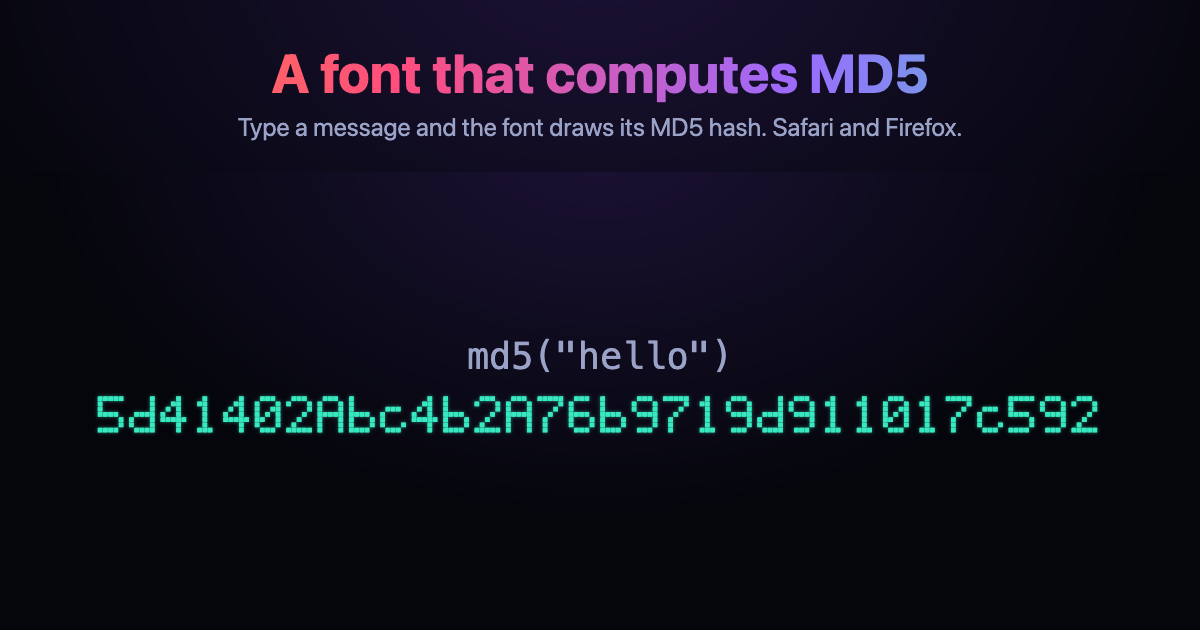
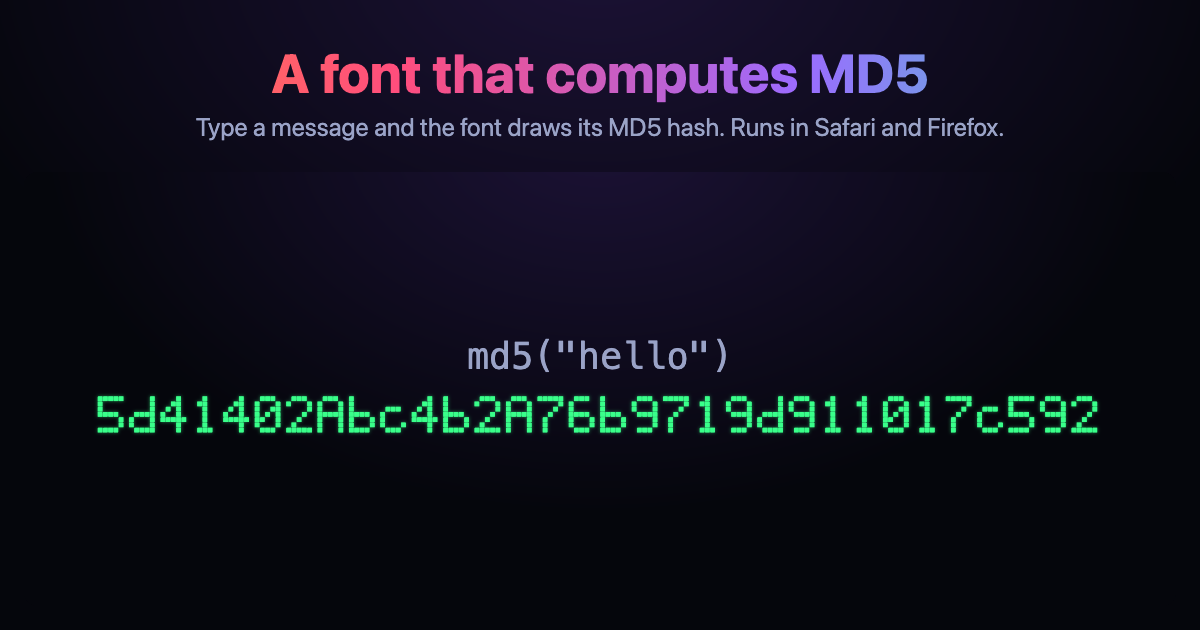
Make the MD5 page match the rest of the site
Draw the hash in the same green as the calculator and Life, put the status
next to the input like the other pages' control rows, and shorten it to a
label. Say plainly that the page never computes the hash, and cut the
footer to the length of the others. The gallery and README now say "demo"
instead of "scene", since not every demo is a scene.

Changed region(s): [[0.0617, 0.6032, 0.925, 0.6937], [0.1542, 0.181, 0.8325, 0.2413]]

diff --git a/docs/md5/index.html b/docs/md5/index.html
@@ -53,8 +53,8 @@
         overflow-wrap: normal;
         letter-spacing: 0;
         font-kerning: none;
-        color: #38e8c0;
-        text-shadow: 0 0 0.06em #38e8c088;
+        color: #39ff8a;
+        text-shadow: 0 0 0.06em #39ff8a88;
       }
       .readout.error { color: var(--hot); }
     </style>
@@ -66,7 +66,7 @@
         <a href="https://github.com/agustingianni/glyph-machine/blob/main/src/build_hash.py">Source</a>
       </nav>
       <h1 class="title">A font that computes MD5</h1>
-      <p class="lede">Type a message. While your browser lays out the text, the font works out its <b>MD5</b> hash and draws the 32 hex digits. All 64 rounds of MD5 run inside the font. The page's JavaScript only checks that the input is printable ASCII.</p>
+      <p class="lede">Type a message. While your browser lays out the text, the font works out its <b>MD5</b> hash and draws the 32 hex digits. The page never computes the hash: its JavaScript only puts your text in the box, and all 64 rounds run inside the font.</p>
 
       <div class="panels">
         <div class="panel">
@@ -90,8 +90,8 @@
       <div class="controls">
         <input type="text" id="in" value="hello" maxlength="55" aria-label="your message"
           autocomplete="off" spellcheck="false" />
+        <span class="readout" id="status" role="status">Loading the font...</span>
       </div>
-      <p class="readout" id="status" role="status">Loading the font...</p>
 
       <div class="legend">
         <span class="chip"><b>Firefox</b>: Graphite rules with integer registers, 6 KB</span>
@@ -100,7 +100,7 @@
         <span class="chip">Up to 55 ASCII characters, one MD5 block</span>
       </div>
 
-      <p class="foot">Each browser gets a font made for its own text engine. Firefox runs Graphite, a rule language with a small integer machine. That font keeps MD5's 16 message words and 4 state words as numbers on one glyph, and revisits the glyph 128 times. Safari runs Apple's AAT <code>morx</code> state machines, which have no numbers, only glyphs and a small state. That font first grows the text into a tape of 704 glyphs, one per bit. Then 2,180 state tables add, rotate, and copy bits along the tape, and keep each carry in the machine's state. The page puts a few invisible characters around your text, so even an empty message has something to shape. Chrome runs neither font.</p>
+      <p class="foot">Each browser gets a font made for its own text engine. Firefox runs Graphite rules, which keep MD5's words as numbers on one glyph and revisit it 128 times. Safari runs AAT <code>morx</code> state machines, which have no numbers: they grow the text into a tape of one glyph per bit, then add, rotate, and copy bits along it. The invisible characters around your text give even an empty message something to shape. Chrome runs neither font.</p>
     </div>
     <script>
       var GRAPHITE = CSS.supports("font-tech(features-graphite)");
@@ -145,8 +145,8 @@
         else if (!ok)
           readout.textContent = "Use only printable ASCII: letters, digits, punctuation, and spaces.";
         else if (state === "ready")
-          readout.textContent = text.length + " of 55 characters. Hash computed by "
-            + (GRAPHITE ? "Firefox's Graphite engine." : "Safari's AAT engine.");
+          readout.textContent = text.length + " of 55 characters, hashed by "
+            + (GRAPHITE ? "Graphite" : "AAT morx");
       }
       inp.addEventListener("input", sync);
       document.querySelectorAll("#presets button").forEach(function (b) {

diff --git a/docs/index.html b/docs/index.html
@@ -36,7 +36,7 @@
       <h1 class="title">Fonts that draw impossible things</h1>
       <p class="lede">
         Six small experiments where a line of text does something a font is not
-        supposed to do. Every scene lives inside a font file and is drawn by your
+        supposed to do. Every demo lives inside a font file and is drawn by your
         browser's own text engine. No image, canvas, or SVG. The spinning letters
         above are text too.
       </p>
@@ -86,7 +86,7 @@
             tabindex="-1" scrolling="no" title="A font that computes MD5 preview"></iframe>
           <div class="meta">
             <h3>MD5 hash</h3>
-            <p>Type a message and the font draws its MD5 hash. Safari and Firefox.</p>
+            <p>Type a message and the font draws its MD5 hash. Runs in Safari and Firefox.</p>
           </div>
         </a>
       </div>

diff --git a/docs/md5/hero.html b/docs/md5/hero.html
@@ -35,8 +35,8 @@
     font-size: calc(100vw / 22);
     line-height: 1;
     white-space: pre;
-    color: #38e8c0;
-    text-shadow: 0 0 0.06em #38e8c088;
+    color: #39ff8a;
+    text-shadow: 0 0 0.06em #39ff8a88;
   }
 </style>
 <div class="s">

diff --git a/src/build_site.py b/src/build_site.py
@@ -615,8 +615,8 @@ def hash_page(cfg):
         overflow-wrap: normal;
         letter-spacing: 0;
         font-kerning: none;
-        color: #38e8c0;
-        text-shadow: 0 0 0.06em #38e8c088;
+        color: #39ff8a;
+        text-shadow: 0 0 0.06em #39ff8a88;
       }}
       .readout.error {{ color: var(--hot); }}"""
     buttons = "\n".join(f'        <button data-v="{html.escape(v)}">{label}</button>'
@@ -642,8 +642,8 @@ def hash_page(cfg):
       <div class="controls">
         <input type="text" id="in" value="hello" maxlength="55" aria-label="your message"
           autocomplete="off" spellcheck="false" />
+        <span class="readout" id="status" role="status">Loading the font...</span>
       </div>
-      <p class="readout" id="status" role="status">Loading the font...</p>
 
 {legend(cfg['chips'])}
 
@@ -678,8 +678,8 @@ def hash_page(cfg):
         else if (!ok)
           readout.textContent = "Use only printable ASCII: letters, digits, punctuation, and spaces.";
         else if (state === "ready")
-          readout.textContent = text.length + " of 55 characters. Hash computed by "
-            + (GRAPHITE ? "Firefox's Graphite engine." : "Safari's AAT engine.");
+          readout.textContent = text.length + " of 55 characters, hashed by "
+            + (GRAPHITE ? "Graphite" : "AAT morx");
       }}
       inp.addEventListener("input", sync);
       document.querySelectorAll("#presets button").forEach(function (b) {{
@@ -715,8 +715,8 @@ def hash_hero(cfg):
     font-size: calc(100vw / 22);
     line-height: 1;
     white-space: pre;
-    color: #38e8c0;
-    text-shadow: 0 0 0.06em #38e8c088;
+    color: #39ff8a;
+    text-shadow: 0 0 0.06em #39ff8a88;
   }}""", f"""<div class="s">
   <div class="c" id="c">md5("{html.escape(text)}")</div>
   <div class="h" id="h"></div>
@@ -974,7 +974,7 @@ def gallery(demos):
       <h1 class="title">{TAGLINE}</h1>
       <p class="lede">
         Six small experiments where a line of text does something a font is not
-        supposed to do. Every scene lives inside a font file and is drawn by your
+        supposed to do. Every demo lives inside a font file and is drawn by your
         browser's own text engine. No image, canvas, or SVG. The spinning letters
         above are text too.
       </p>
@@ -1136,27 +1136,25 @@ DEMOS = [
         "hero_text": "hello",
         "title": "A font that computes MD5",
         "card_title": "MD5 hash",
-        "card_desc": "Type a message and the font draws its MD5 hash. Safari and Firefox.",
+        "card_desc": "Type a message and the font draws its MD5 hash. Runs in Safari and Firefox.",
         "description": "A web font that computes the MD5 hash of the text you type. No "
                        "JavaScript does the math: Firefox runs the font's Graphite rules, and "
                        "Safari its AAT morx state machines.",
         "lede": "Type a message. While your browser lays out the text, the font works out its "
-                "<b>MD5</b> hash and draws the 32 hex digits. All 64 rounds of MD5 run inside "
-                "the font. The page's JavaScript only checks that the input is printable ASCII.",
+                "<b>MD5</b> hash and draws the 32 hex digits. The page never computes the hash: "
+                "its JavaScript only puts your text in the box, and all 64 rounds run inside "
+                "the font.",
         "chips": [
             "<b>Firefox</b>: Graphite rules with integer registers, 6 KB",
             "<b>Safari</b>: 2,690 AAT <code>morx</code> state machines, 22 KB",
             "<b>Padding and length</b> worked out by the font",
             "Up to 55 ASCII characters, one MD5 block",
         ],
-        "foot": "Each browser gets a font made for its own text engine. Firefox runs Graphite, "
-                "a rule language with a small integer machine. That font keeps MD5's 16 message "
-                "words and 4 state words as numbers on one glyph, and revisits the glyph 128 "
-                "times. Safari runs Apple's AAT <code>morx</code> state machines, which have no "
-                "numbers, only glyphs and a small state. That font first grows the text into a "
-                "tape of 704 glyphs, one per bit. Then 2,180 state tables add, rotate, and copy "
-                "bits along the tape, and keep each carry in the machine's state. The page puts "
-                "a few invisible characters around your text, so even an empty message has "
+        "foot": "Each browser gets a font made for its own text engine. Firefox runs Graphite "
+                "rules, which keep MD5's words as numbers on one glyph and revisit it 128 times. "
+                "Safari runs AAT <code>morx</code> state machines, which have no numbers: they "
+                "grow the text into a tape of one glyph per bit, then add, rotate, and copy bits "
+                "along it. The invisible characters around your text give even an empty message "
                 "something to shape. Chrome runs neither font.",
     },
 ]

diff --git a/README.md b/README.md
@@ -1,7 +1,7 @@
 # Glyph Machine
 
 Six small experiments where a line of text does something a font is not
-supposed to do. Each scene lives entirely inside a font file and is drawn by the
+supposed to do. Each demo lives entirely inside a font file and is drawn by the
 browser's own text engine. No image, no canvas, no SVG.
 
 ## The demos
